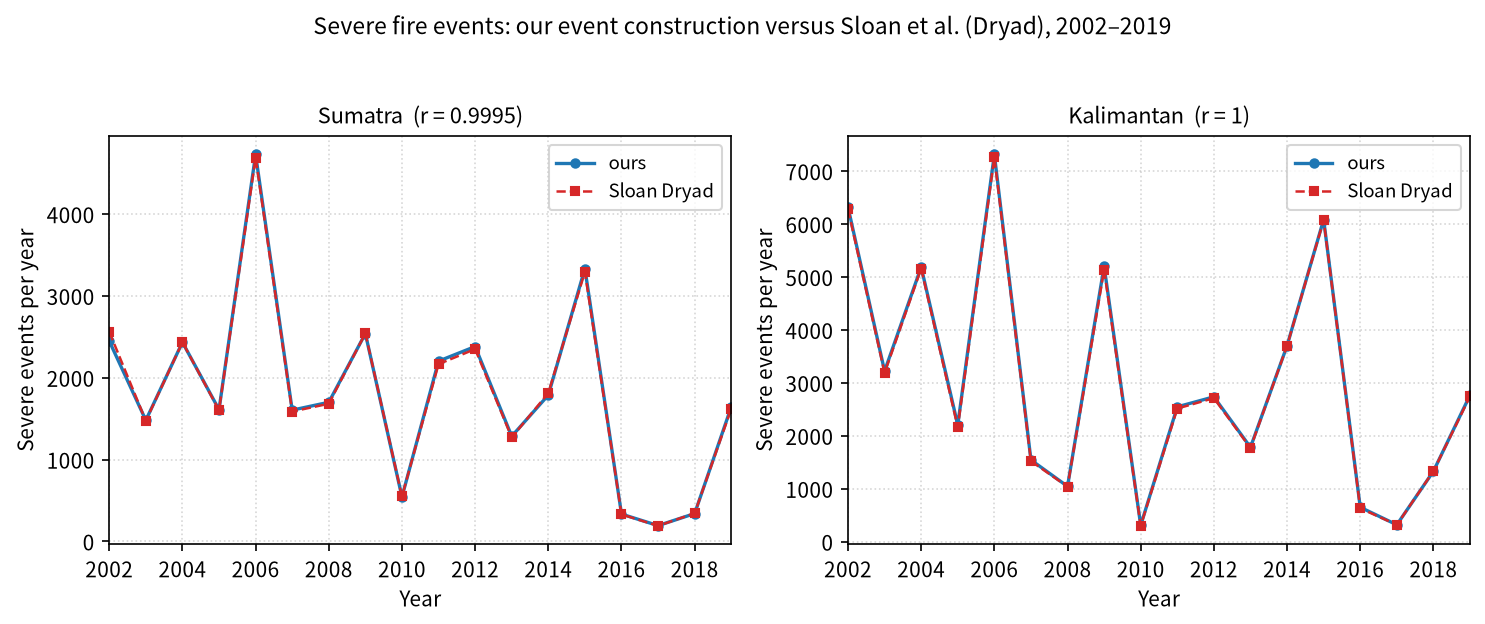
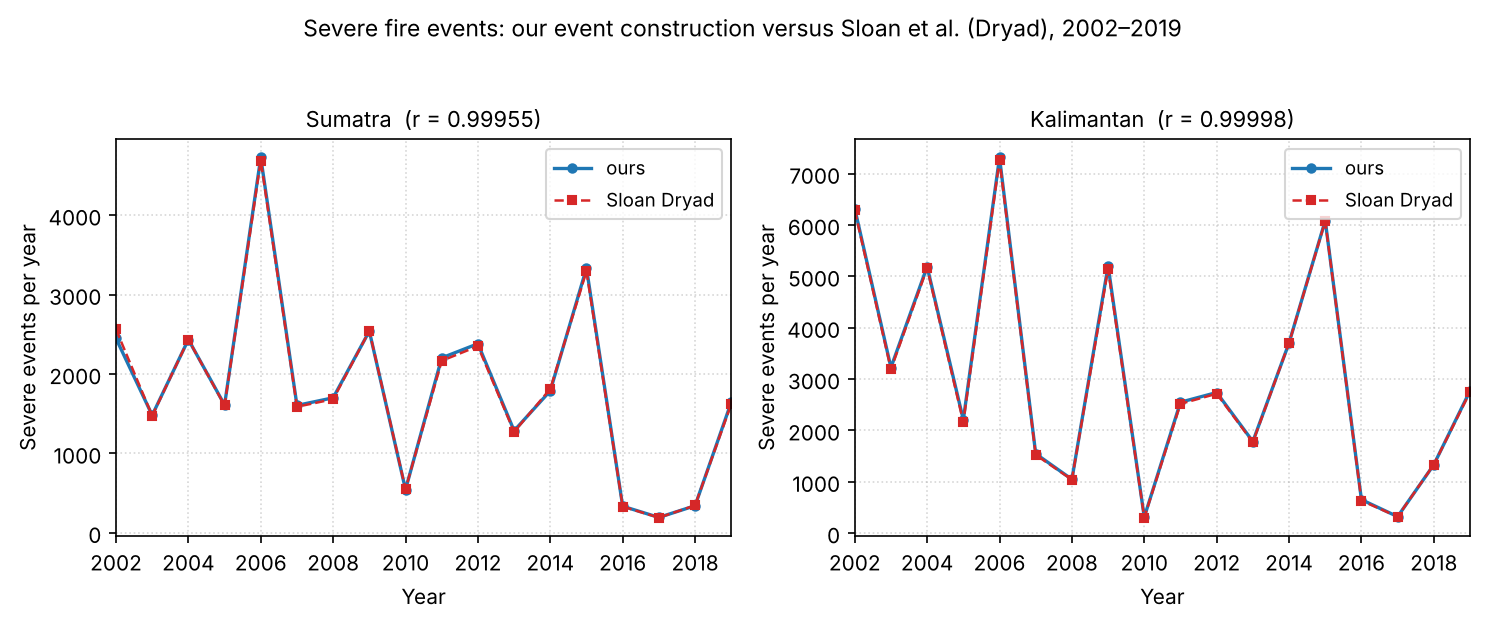
Review fixes: figure r label precision, README unzip path, Chinese date wording
Claude-Session: https://claude.ai/code/session_01MSYKkzpeL5CLHPR9k6Gwdi

diff --git a/src/v2_figures.py b/src/v2_figures.py
@@ -55,7 +55,7 @@ def _build_step0_replication(results_dir: str) -> str:
             color="#d62728", label="Sloan Dryad",
         )
         r = r_lookup[island_key]
-        ax.set_title(f"{island_label}  (r = {r:.4g})", fontsize=10.5)
+        ax.set_title(f"{island_label}  (r = {r:.5f})", fontsize=10.5)
         ax.set_xlabel("Year")
         ax.set_ylabel("Severe events per year")
         ax.set_xlim(2002, 2019)

diff --git a/README.zh-CN.md b/README.zh-CN.md
@@ -63,7 +63,7 @@ v2：
 | `src/analyse_r2.py` | 第 2 轮：用官方 ONI 交叉核对，加入印度洋偶极子。读取第 1 轮结果，需在 `analyse.py` 之后运行。 |
 | `src/analyse_r3.py` | 第 3 轮：换成 GPCP 降雨（与 ERA5 相互独立）重新检验。在 `analyse_r2.py` 之后运行，需要 `netCDF4`。 |
 | `src/fetch_firms.py` | 下载 NASA FIRMS MODIS 火点，Aug–Oct 窗口（v1）。密钥从 `FIRMS_MAP_KEY` 读取，不保存在任何文件里。 |
-| `src/fetch_firms_v2.py` | 下载 NASA FIRMS MODIS_SP 火点，每个季节的 1 Jun–31 Jul 和 1 Nov–次年 1 Jan（v2 事件构建需要的边缘月份；Aug–Oct 已从 `data/raw/firms/` 获得）。从 `FIRMS_MAP_KEY` 读密钥。 |
+| `src/fetch_firms_v2.py` | 下载 NASA FIRMS MODIS_SP 火点，每个季节的 6 月 1 日至 7 月 31 日和 11 月 1 日至次年 1 月 31 日（v2 事件构建需要的边缘月份；Aug–Oct 已从 `data/raw/firms/` 获得）。从 `FIRMS_MAP_KEY` 读密钥。 |
 | `src/analyse_r4.py` | 第 4 轮：干旱 → 火点 → 新加坡 PM2.5。在 `analyse_r3.py` 之后运行。 |
 | `src/plot_r4.py` | 绘制 `results/fires_r4.png`。 |
 | `src/confirmatory.py` | 按 `docs/research_plan_v1.md` 做主检验和稳健性检验。在 `analyse_r4.py` 之后运行，需要 `statsmodels`。 |
@@ -110,7 +110,7 @@ v2，在 v1 之后跑（v2 的事件构建复用 v1 的 FIRMS 火点文件）：
    unzip doi_10_5061_dryad_msbcc2g1t__v20220828.zip -d data/external/sloan_dryad
    cd data/external/sloan_dryad
    unzip Dryad_Version_ofGDB.zip
-   cd /workspace
+   cd ../../..
    ```
 
 2. **FIRMS 密钥（从环境变量读取，绝不写入任何文件）。** 在 shell 里设置 `FIRMS_MAP_KEY`。`src/fetch_firms_v2.py` 需要它。v2 分析脚本（`v2_step0.py`、`v2_stage2.py`）从磁盘读已经下载好的 FIRMS 文件，不调用 FIRMS API。
@@ -150,7 +150,7 @@ v2，在 v1 之后跑（v2 的事件构建复用 v1 的 FIRMS 火点文件）：
 | 偶极子模态指数 DMI（HadISST1.1；2026 年 7 月 25 日生成，最近几个月为初步值） | NOAA PSL `psl.noaa.gov/gcos_wgsp/Timeseries/Data/dmi.had.long.data`，由 Toni 手动下载，保存为 `noaa_psl_dmi_had_long.data` | 1870 年 1 月至 2026 年 5 月 | NOAA PSL；HadISST 为英国气象局数据，需署名 |
 | GPCP v2.3 月降水，2.5°（卫星 + 雨量站；2021 年 11 月起为临时版） | NOAA PSL `downloads.psl.noaa.gov/Datasets/gpcp/precip.mon.mean.nc`，由 Toni 手动下载，保存为 `noaa_psl_gpcp_v2.3_precip.mon.mean.nc` | 1979 年 1 月至 2026 年 6 月 | NOAA PSL；引用 Adler et al. 2003（文件内有引文） |
 | MODIS 火点，Aug–Oct 2001–2025 和近实时 2026（v1） | NASA FIRMS 区域 API，范围东经 100 至 116.5 度、南纬 5 度至北纬 2.3 度，2026 年 10 月 16 日用 Toni 的 MAP_KEY 下载，存放在 `data/raw/firms/` | 2001 至 2025 年每年 8 月 1 日至 10 月 31 日；2026 年 8 月 1 日至 10 月 15 日 | NASA 开放数据；引用 FIRMS |
-| MODIS 火点，每个季节 1 Jun–31 Jul 和 1 Nov–次年 1 Jan（v2 事件构建的边缘月份；这些季节的 Aug–Oct 已从 `data/raw/firms/` 获得） | NASA FIRMS 区域 API，范围同上，2026 年 11 月 2 日下载，存放在 `data/raw/firms_v2/` | 2002 至 2025 年各季节的 6 月 1 日至 7 月 31 日，以及 11 月 1 日至次年 1 月 31 日；Aug–Oct 来自 `data/raw/firms/` | NASA 开放数据；引用 FIRMS |
+| MODIS 火点，每个季节 6 月 1 日至 7 月 31 日和 11 月 1 日至次年 1 月 31 日（v2 事件构建的边缘月份；这些季节的 Aug–Oct 已从 `data/raw/firms/` 获得） | NASA FIRMS 区域 API，范围同上，2026 年 11 月 2 日下载，存放在 `data/raw/firms_v2/` | 2002 至 2025 年各季节的 6 月 1 日至 7 月 31 日，以及 11 月 1 日至次年 1 月 31 日；Aug–Oct 来自 `data/raw/firms/` | NASA 开放数据；引用 FIRMS |
 | Sloan 火灾事件检测点及引燃时间，2002–2019 | Dryad doi 10.5061/dryad.msbcc2g1t，版本 2022 年 8 月 28 日，手动下载 | 印度尼西亚的火灾事件检测点和引燃时间，2002 至 2019 年 | 去 Dryad 页面查 |
 | 分区 PSI 和 24 小时 PM2.5，逐小时 | NEA，经 data.gov.sg 实时 API（`/v2/real-time/api/psi?date=`） | 2016 至 2025 年每年 8 月 1 日至 10 月 31 日；2026 年 8 月 1 日至 10 月 15 日 | Singapore Open Data Licence；注明来源，不得暗示官方身份 |
 

diff --git a/README.md b/README.md
@@ -110,7 +110,7 @@ v2, run after v1 (the v2 event builder reuses the v1 FIRMS files):
    unzip doi_10_5061_dryad_msbcc2g1t__v20220828.zip -d data/external/sloan_dryad
    cd data/external/sloan_dryad
    unzip Dryad_Version_ofGDB.zip
-   cd /workspace
+   cd ../../..
    ```
 
 2. **FIRMS key (read from environment, never written to disk).** Set `FIRMS_MAP_KEY` in your shell. `src/fetch_firms_v2.py` needs it. The v2 analysis scripts (`v2_step0.py`, `v2_stage2.py`) read already-downloaded FIRMS files from disk and do not call the FIRMS API.
